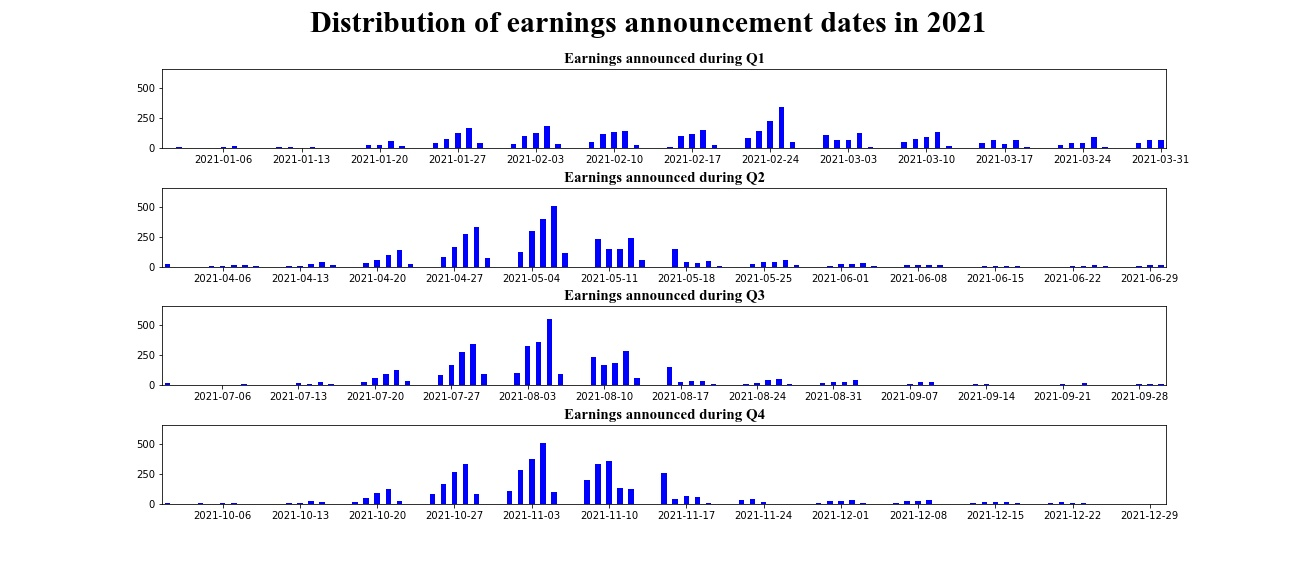
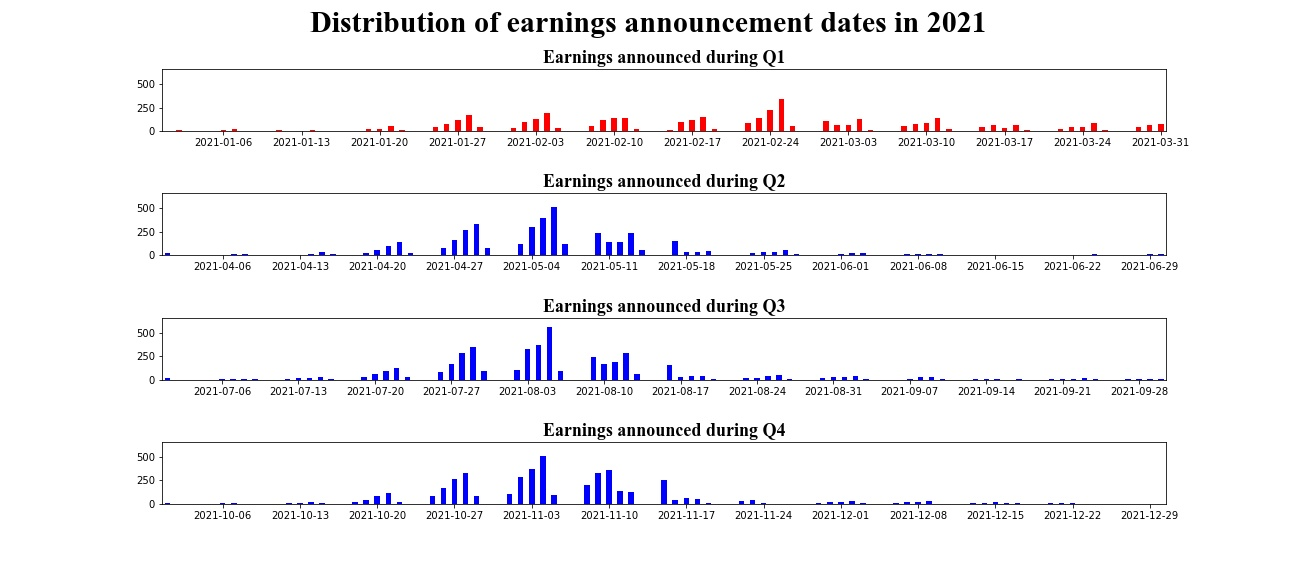
Q1 distribution is emphasized.

diff --git a/visuals.md b/visuals.md
@@ -29,7 +29,11 @@ Click here for the [Code](https://nbviewer.org/github/jaeyoonyu/jaeyoonyu.github
 
 <img src="/assets/images/earnings-ann-date-dist.jpg" class="inline">
 
+<b>The Q1 distribution is more dispersed</b> as many firms prepare 10-K and are subject to year-end audits.
+
 Click here for the [Code](https://nbviewer.org/github/jaeyoonyu/jaeyoonyu.github.io/blob/main/_code/earnings-ann-date-dist.ipynb).<br/>
+
+
 
 ---
 <h2> 4. How many clients for each audit firm? </h2>
